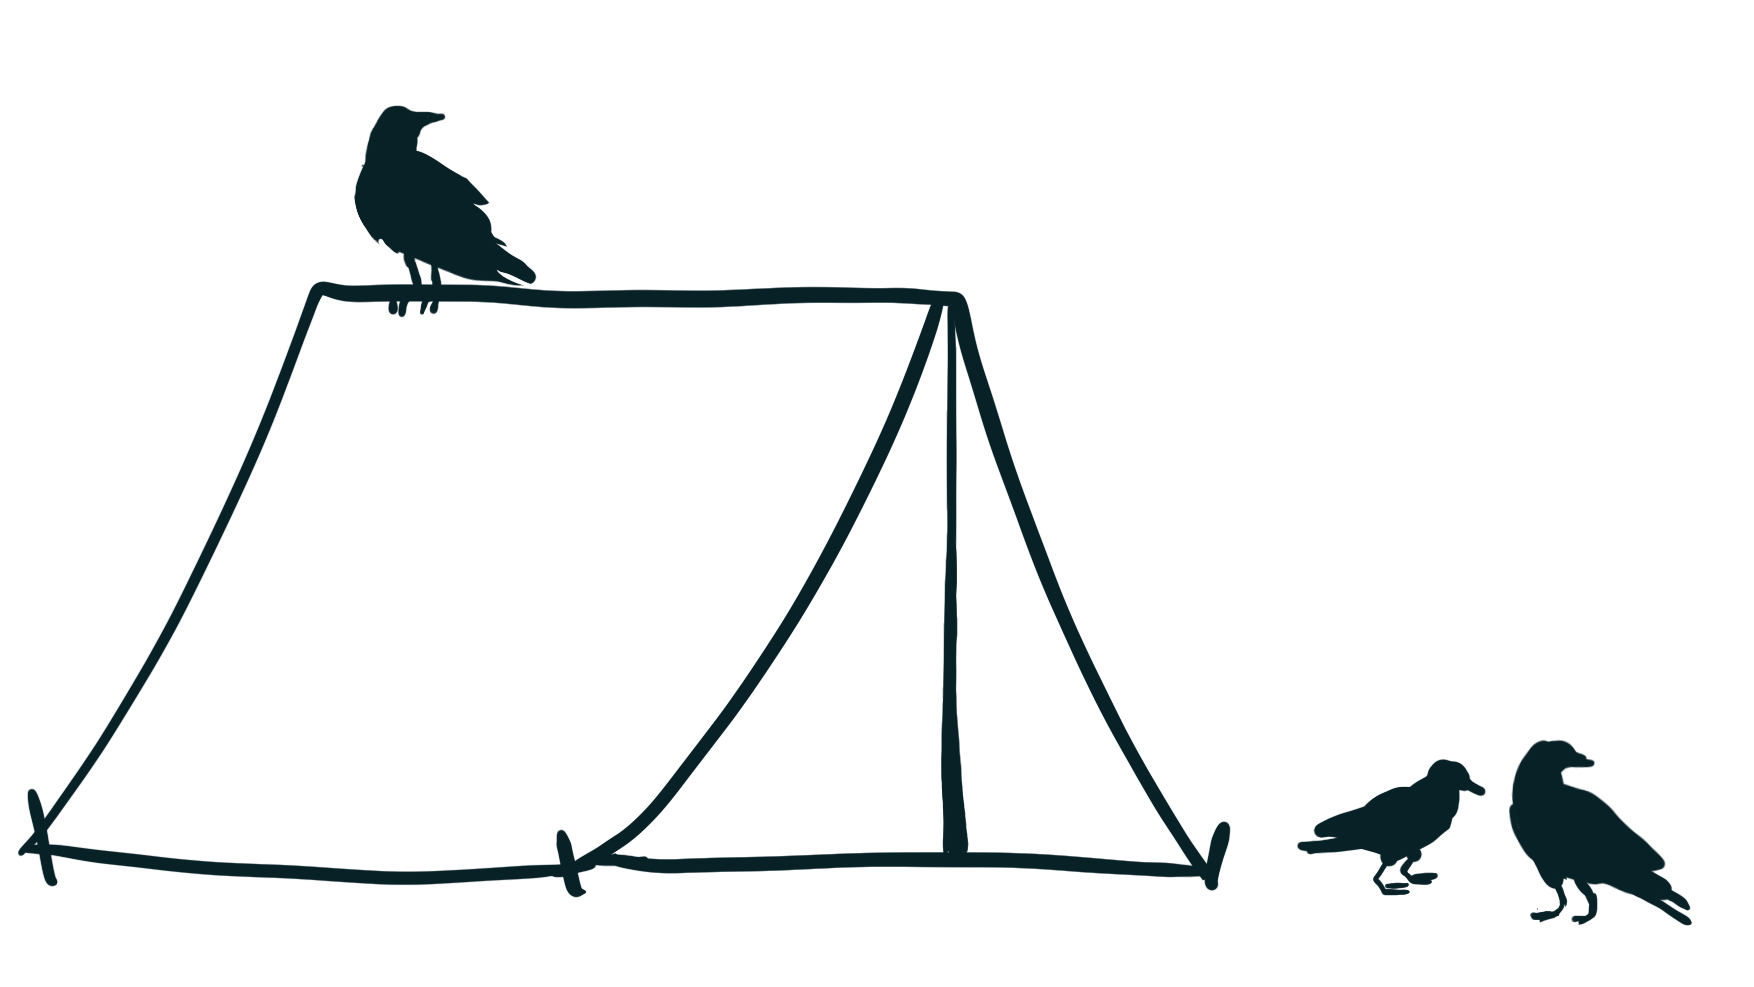
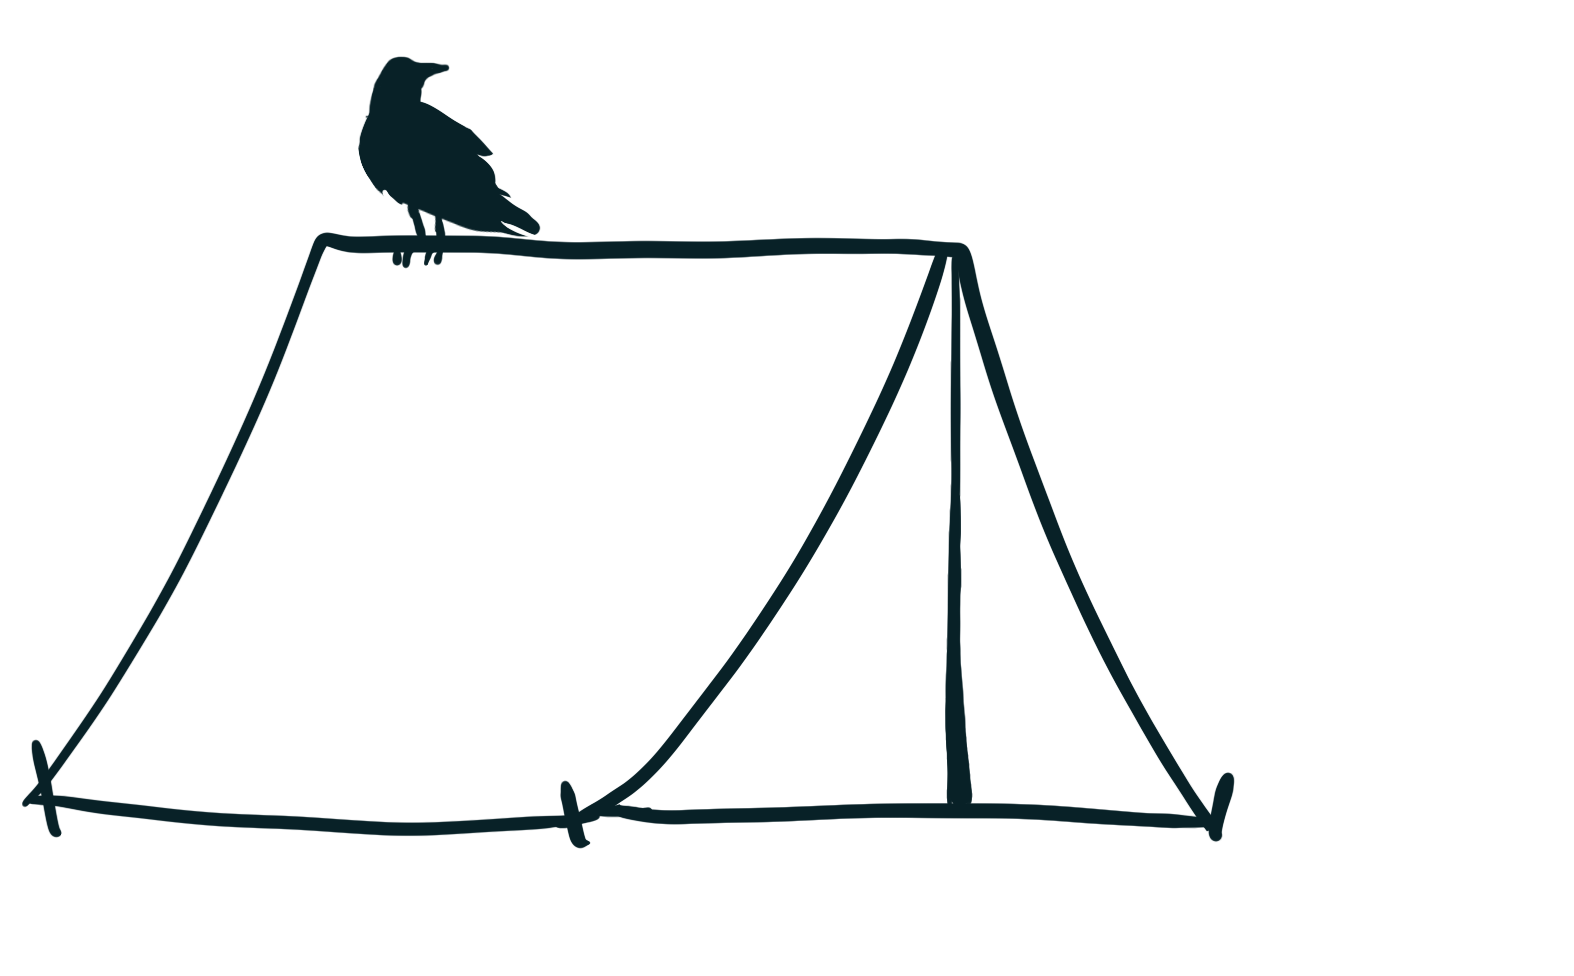
add aid and tent animations and css

Changed region(s): [[0.0, 0.0615, 0.9651, 0.9529], [0.716, 0.707, 0.7471, 0.7992], [0.0934, 0.5533, 0.1245, 0.6148]]

diff --git a/style.css b/style.css
@@ -494,73 +494,34 @@ body {
 }
 
 /* Tent scene */
-.tent-scene {
+
+.aid-illustration {
   position: relative;
-  width: 100%;
-  height: auto;
 }
 
-/* Group for sun + lines */
-.sun-group {
+.aid-background {
   position: absolute;
-  top: 20%;
-  left: 60%;
-  transform: translateX(-50%);
-  z-index: 0; /* behind tent */
+  z-index: -1;
 }
 
-/* 🌞 Sun */
-.sun {
-  width: 70px;
-  height: 70px;
-  background: #6A0201;
-  border-radius: 50%;
-  filter: blur(1px);
-  opacity: 0.95;
+.aid-foreground {
+  position: absolute;
+  top: 0;
+}
+
+.tent-illustration {
   position: relative;
-  z-index: 1; /* above lines but below tent */
-  transition: transform 0.3s ease-out;
 }
 
-/* 🔥 Heat lines — now tied to sun */
-.heat-lines {
-      position: absolute;
-    top: 50%;
-    left: 50%;
-    width: 450%;
-    opacity: 0.8;
-    z-index: 0;
+.tent-background {
+  position: absolute;
+  z-index: -1;
 }
 
-.heat-lines img {
-  width: 100%;
-  stroke: #6A0201;
+.tent-foreground {
+  position: absolute;
+  top: 0;
 }
-
-.wave1 {
-  animation: waveMove1 9s ease-in-out infinite;
-}
-
-.wave2 {
-  animation: waveMove2 11s ease-in-out infinite;
-  opacity: 0.6;
-}
-
-@keyframes waveMove1 {
-  0%, 100% { transform: translate(-50%, 0); }
-  50% { transform: translate(-50%, -2px); }
-}
-
-@keyframes waveMove2 {
-  0%, 100% { transform: translate(-50%, 0); }
-  50% { transform: translate(-50%, 2px); }
-}
-
-.tent {
-  width: 100%;
-  z-index: 2;
-}
-
 
 
 /* === Desktop Enhancements === */
@@ -647,8 +608,31 @@ body {
     left: 25%;
   }
 
-  .tent {
-    width: 50%;
-    margin: 0 auto;
+.scene {
+    max-width: 500px;
+    margin: 3rem auto;
   }
+
+  /* Allow for slightly deeper separation visually */
+  .layer-back {
+    opacity: 0.9;
+    filter: blur(0.3px);
+  }
+
+  .layer-front {
+    opacity: 1;
+    transform-origin: center;
+  }
+
+  .illu-wrapper {
+    max-width: 50%;
+    margin: 3rem auto;
+  }
+
+  .illu-back, .illu-front {
+    left: 50%;
+    transform: translateX(-50%);
+  }
+
+
 }

diff --git a/index.html b/index.html
@@ -145,17 +145,11 @@
       <p class="testemonial">
         “In Gaza’s hospitals, the morgue refrigerators are overflowing with the corpses of unidentified martyrs. These include those whose bodies have been dismembered as well as those who were displaced from their usual place of residence and their identities unknown. Some hospitals have been forced to use refrigerators from ice cream trucks to store more corpses, while others are simply placing bodies they don’t have space for in tents to keep them out of the sun.”
       </p>
-      <div class="tent-scene">
-  <!-- <div class="sun-group">
-    <div class="sun"></div>
-    <div class="heat-lines">
-      <img src="img/heat-lines.svg" class="wave1" alt="">
-      <img src="img/heat-lines.svg" class="wave2" alt="">
-    </div>
-  </div> -->
-  <img src="img/tent.png" alt="Tent scene" class="tent">
-</div>
-<p class="update-text">* <b>Update</b> from 2025 – As for January 2025...</p>
+        <div class="tent-illustration illu-wrapper">
+          <img src="img/tent-waves.png" class="tent-background illu-back" alt="heat waves">
+          <img src="img/tent.png" class="tent-main illu-center" alt="tent">
+          <img src="img/tent-crows.png" class="tent-foreground illu-front" alt="crows">
+        </div>
     </div>
   </div>
 
@@ -351,7 +345,12 @@
       <p class="testemonial">
           “Since May 27, well over 400 Palestinians have been killed and over 3,000 wounded while waiting for aid.”
       </p>
-      <p class="update-text">* <b>Update</b> from 2025 – As for January 2025...</p>
+      <div class="aid-illustration illu-wrapper">
+        <img src="img/aid-puddle.png" class="aid-background illu-back" alt="tomato puddle">
+        <img src="img/aid-box.png" class="aid-main illu-center" alt="aid box">
+        <img src="img/aid-can.png" class="aid-foreground illu-front" alt="tomato can">
+      </div>
+
     </div>
   </div>
 

diff --git a/effect.js b/effect.js
@@ -107,18 +107,31 @@ window.addEventListener("scroll", () => {
 });
 
 
-// tent heat effect
-(() => {
-  const section = document.querySelector('.tent-scene');
-  const sun = document.querySelector('.tent-scene .sun');
+// aid and tent parallax
 
-  function onScroll() {
-    const rect = section.getBoundingClientRect();
-    const scrolled = Math.max(0, window.innerHeight - rect.top);
-    const y = Math.min(scrolled * 0.15, 100); // slower descent
-    sun.style.transform = `translate(-50%, ${y}px)`;
-  }
+// Parallax motion by changing CSS position (more visible version)
+window.addEventListener("scroll", () => {
+  const isDesktop = window.matchMedia("(min-width: 1024px)").matches;
+  const moveY = isDesktop ? 120 : 60; // vertical motion range in px
+  const moveX = isDesktop ? 60 : 30;  // horizontal motion range in px
 
-  window.addEventListener('scroll', onScroll, { passive: true });
-})();
+  document.querySelectorAll(".aid-illustration, .tent-illustration").forEach(scene => {
+    const rect = scene.getBoundingClientRect();
+    const progress = (window.innerHeight / 2 - rect.top) / window.innerHeight; // from -1 to +1
+
+    const background1 = scene.querySelector(".tent-background");
+    const background2 = scene.querySelector(".aid-background");
+
+    // Background drifts down-right
+    if (background1) {
+      background1.style.top = `${progress * moveY}px`;
+    }
+
+     if (background2) {
+      background2.style.top = `${progress * moveY / 6 }px`;
+    }
+  });
+});
+
+
 
